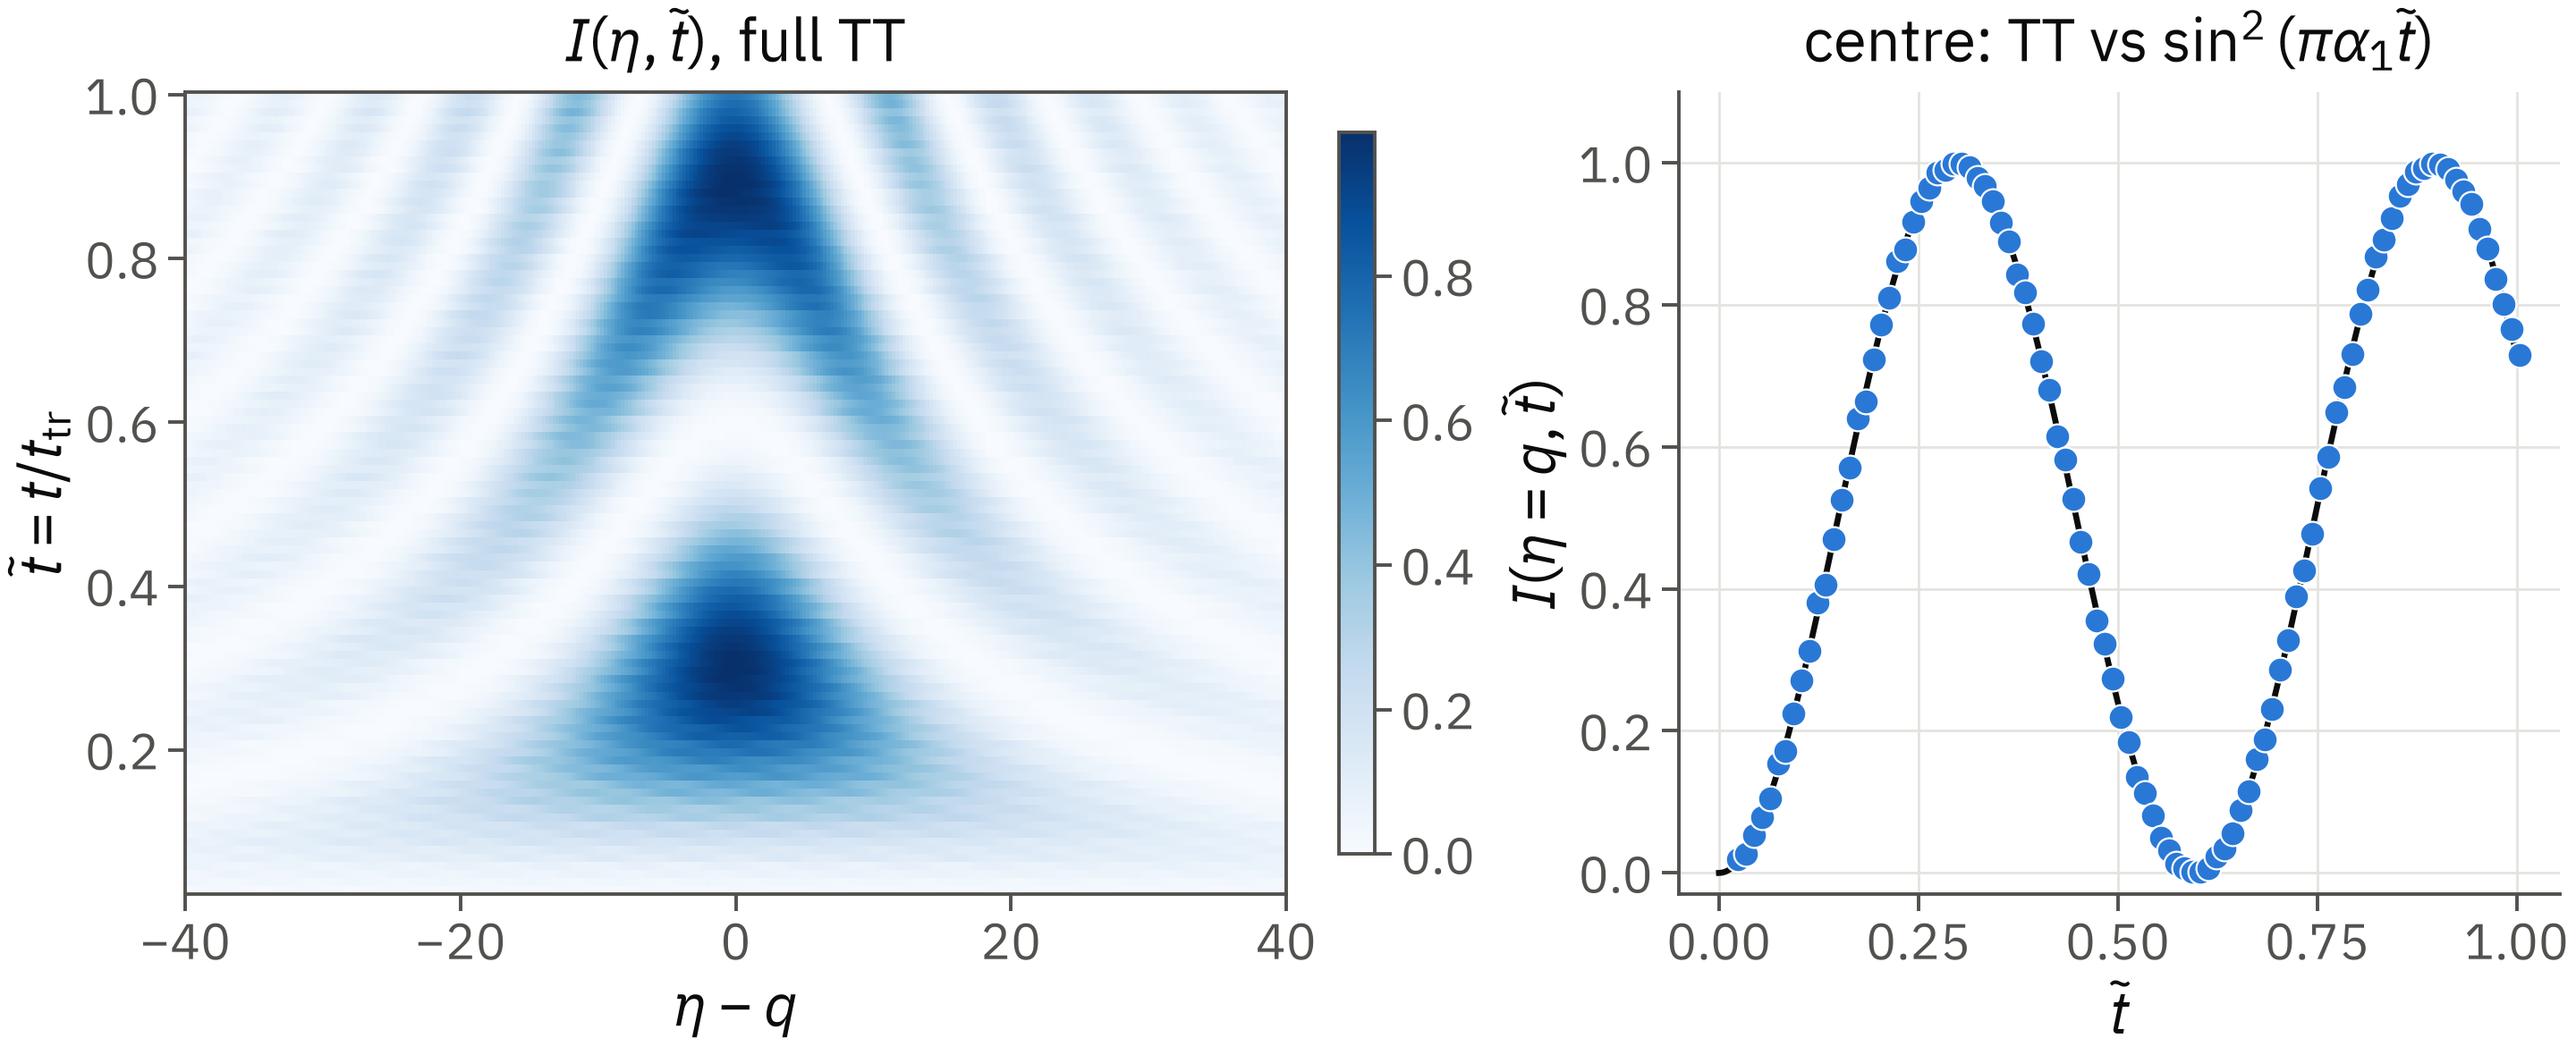
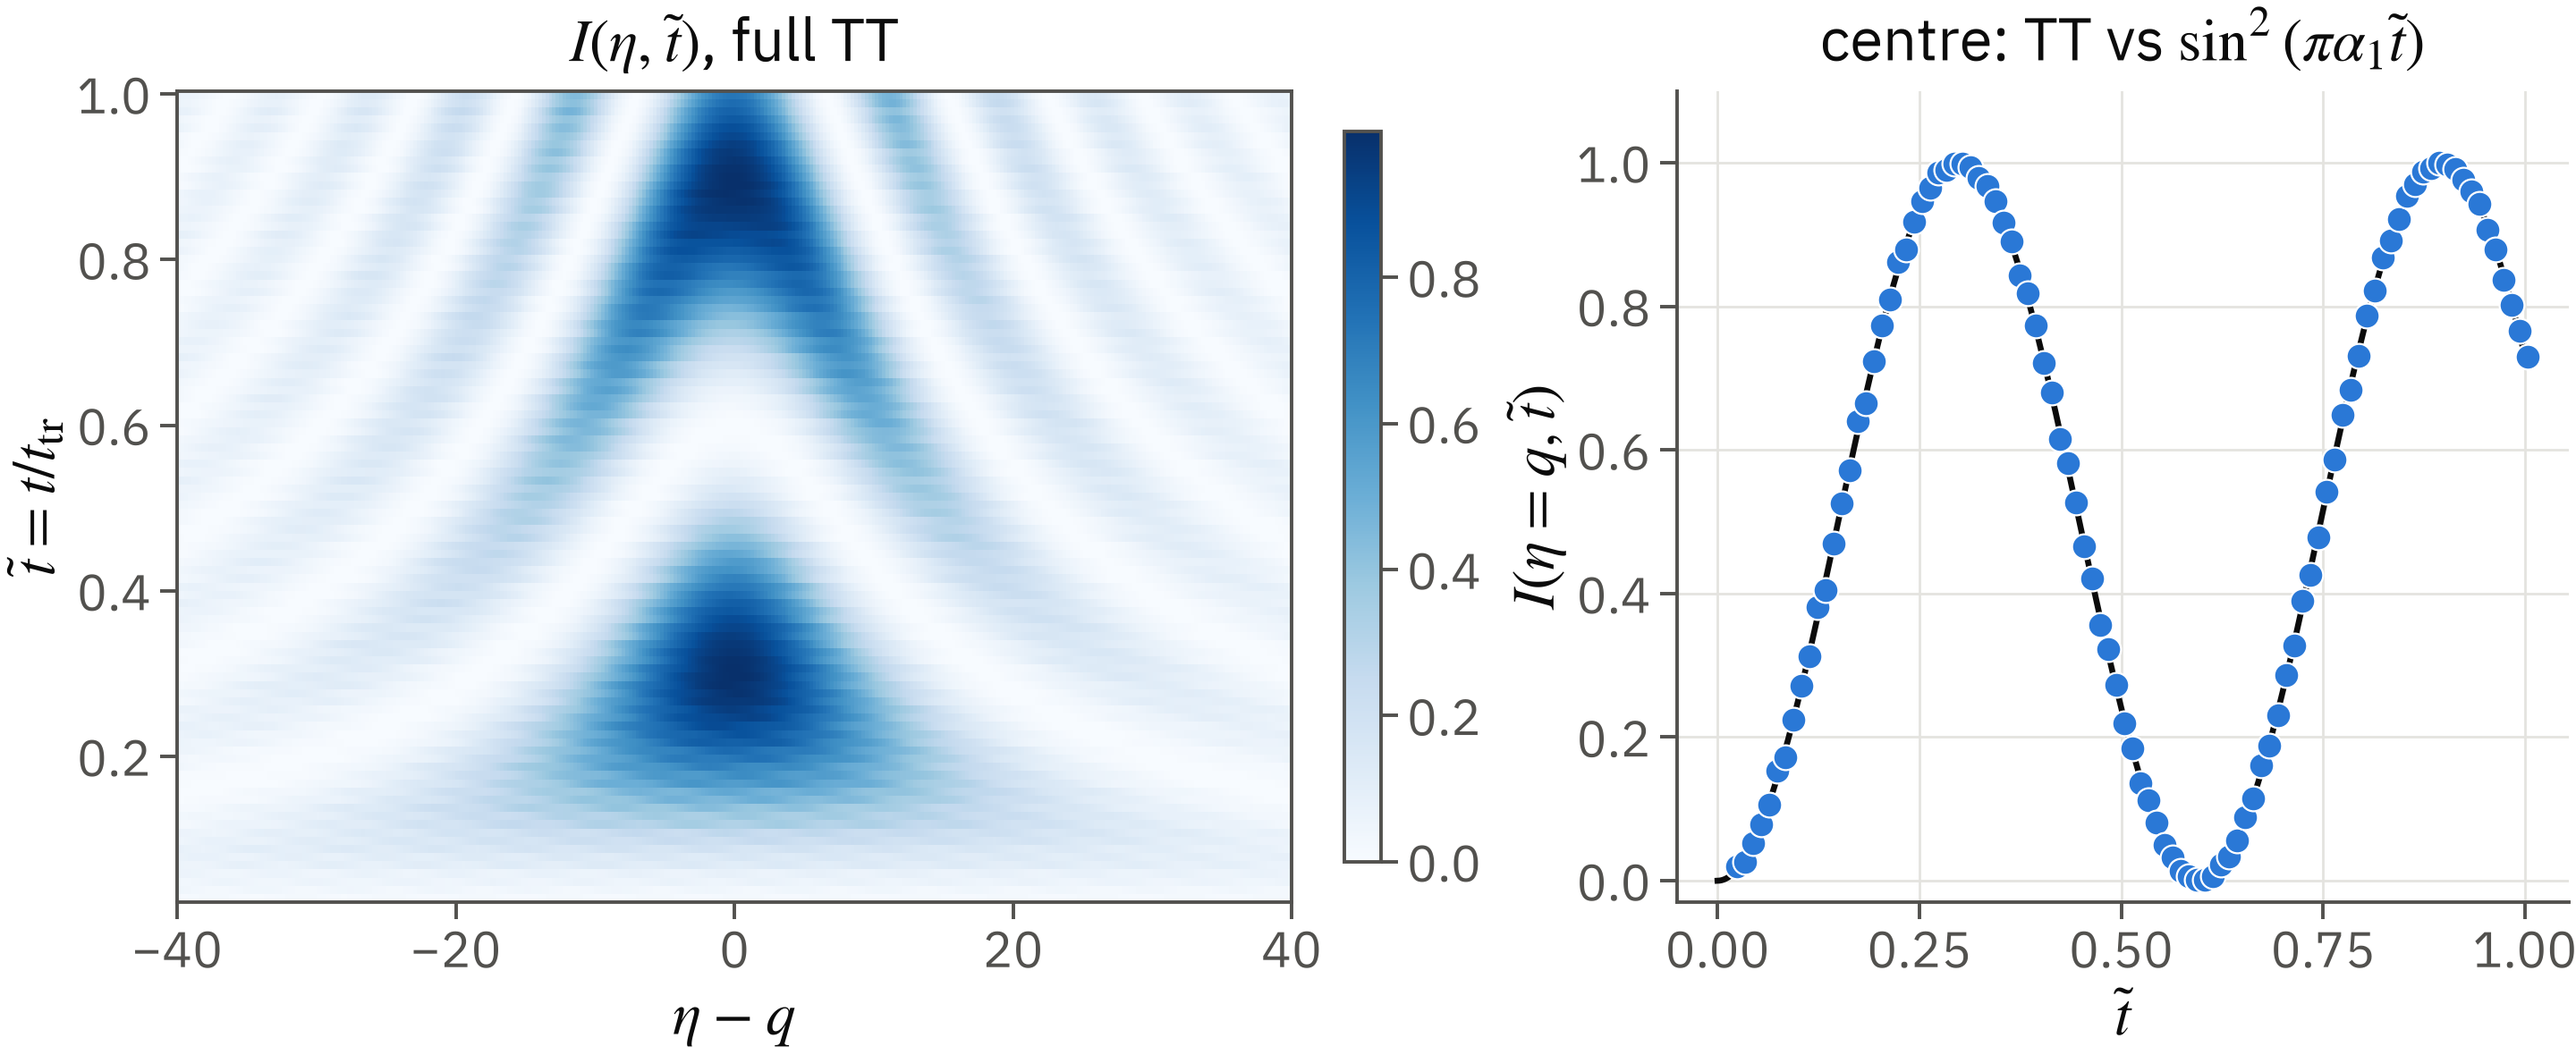
Type: give the math its own face
The poster set its equations in IBM Plex Sans, the same face as the body. A
specimen of the poster's own strings under four fontsets showed what that costs:

- Plex Sans has no \cdot and no \sim, so "S = h . u_0" and "R ~ 1" were silently
  falling back to DejaVu Sans mid-equation;
- its \int is a text-sized glyph, which makes the Theta_n integral read as a
  stray stroke in the panel that is built around it;
- sans italic variables are barely distinguishable from the sans body text.

Computer Modern fixes all three and looks like physics, but rendered into the
real layout its display integral overshoots the line box and collides with the
line below, so it is rejected on a measured failure rather than on taste. STIX
gives proper italics, a readable integral and no fallback glyphs, and stays
inside the line box. Text stays IBM Plex Sans.

Absolute values are now \left|..\right|: a bare STIX bar is the height of a
lowercase l, so "pi alpha |J_n(S)|" read as "pi alpha lJ_n(S)l" in the key
result band. Scaling the delimiter to the content fixes it.

explore/make_poster_figs.py takes the same pairing, so an axis label and a panel
equation are set identically; all five figures regenerated. TRATT_MATH switches
the fontset for a future comparison. Build checks pass.

diff --git a/poster/build.py b/poster/build.py
@@ -6,7 +6,14 @@ is still required; the checks only catch what a machine can see.
 
 Look (v2). Group identity from the ICAMD 2025 poster (navy header, logos, three-colour stripe, A0,
 two columns), with a less "default slide" finish:
-- IBM Plex Sans throughout (poster/fonts, SIL OFL), math in the same face (italic for variables);
+- text in IBM Plex Sans (poster/fonts, SIL OFL); math in STIX, so a variable is a serif italic
+  and is told apart from the sans body at a glance. Plex Sans was the math face too until the
+  specimen showed what it costs: it has no \cdot and no \sim, so "h . u_0" and "R ~ 1" were
+  silently falling back to DejaVu, and its \int is a text-sized glyph that vanishes in the
+  Theta_n equation. Computer Modern ("cm") fixes both but its display integral overshoots the
+  line box and collides with the line below, so STIX is the one that fits this layout. Set
+  TRATT_MATH=cm|plex|dejavuserif to re-compare. Absolute values are \left|..\right|: a bare
+  STIX | is the height of a lowercase l and reads as one;
 - borderless rounded cards with a faint shadow; the section head sits inside its card: an orange
   number badge, a navy semibold title and a hairline divider;
 - bullets are small orange squares at x-height; the key message is a navy band with white text;
@@ -48,10 +55,18 @@ for _f in sorted((ROOT / "poster" / "fonts").glob("*.ttf")):
 FONT = "IBM Plex Sans"
 # Word-by-word placement needs text widths that scale linearly with dpi; hinting breaks that and
 # makes long words overrun the next one in a preview rendered at another dpi.
+import os  # noqa: E402
+
+# Math face. IBM Plex Sans has no \cdot and no \sim, so a custom all-Plex fontset silently
+# falls back to DejaVu for "h . u_0" and "R ~ 1"; its \int is also a text-sized glyph, which
+# the Theta_n equation needs to be bigger than. Set TRATT_MATH to compare.
+MATH = os.environ.get("TRATT_MATH", "stix")
+_math = ({"mathtext.fontset": "custom", "mathtext.rm": FONT, "mathtext.it": f"{FONT}:italic",
+          "mathtext.bf": f"{FONT}:bold", "mathtext.sf": FONT}
+         if MATH == "plex" else {"mathtext.fontset": MATH})
 matplotlib.rcParams.update({"text.hinting": "none", "text.hinting_factor": 1, "font.family": FONT,
-                            "mathtext.fontset": "custom", "mathtext.rm": FONT, "mathtext.it": f"{FONT}:italic",
-                            "mathtext.bf": f"{FONT}:bold", "mathtext.sf": FONT,
-                            "pdf.fonttype": 42})   # TrueType in the PDF: editable, accepted by print shops
+                            "pdf.fonttype": 42,   # TrueType in the PDF: editable, accepted by print shops
+                            **_math})
 import matplotlib.image as mpimg  # noqa: E402
 import matplotlib.pyplot as plt  # noqa: E402
 from matplotlib.patches import FancyBboxPatch  # noqa: E402

diff --git a/explore/make_poster_figure.py b/explore/make_poster_figure.py
@@ -52,7 +52,7 @@ def collapse(ax, geometry, law, lawlabel, title, small=7.5, ms=4):
                 color=c, ls="none", label=rf"$S$={S:g}, $\alpha$={alpha:g}, $n$={n}")
     s = np.linspace(0, 2.3, 500)
     ax.plot(s, law(s), color=INK, lw=1.4, label=lawlabel, zorder=0)
-    ax.set(xlim=(0, 2.3), ylim=(-0.03, 1.08), xlabel=r"$\alpha_n\tilde t$,  $\alpha_n=\alpha|J_n(S)|$",
+    ax.set(xlim=(0, 2.3), ylim=(-0.03, 1.08), xlabel=r"$\alpha_n\tilde t$,  $\alpha_n=\alpha\left|J_n(S)\right|$",
            ylabel=r"$I(\eta=nq,\,\tilde t)$", title=title)
     ax.legend(fontsize=small, frameon=False, loc="lower right" if geometry == "bragg" else "upper right")
 
@@ -63,7 +63,7 @@ def order_panel(ax):
     t = np.linspace(0.0, 1.0, 201) + OFF
     for n, c, m in zip((1, 2, 3), HUES, MARK):
         tstar = 1 / (2 * alpha * np.abs(jv(n, Ss)))
-        ax.plot(Ss, tstar, color=c, label=rf"$n={n}$: $1/(2\alpha|J_{n}(S)|)$")
+        ax.plot(Ss, tstar, color=c, label=rf"$n={n}$: $1/(2\alpha\left|J_{n}(S)\right|)$")
         pts = []
         for S in (1.0, 2.0, 3.0, 4.0):
             if 1 / (2 * alpha * abs(jv(n, S))) < 0.95:
@@ -77,7 +77,7 @@ def order_panel(ax):
                 arrowprops=dict(arrowstyle="->", color=INK2, lw=0.8))
     ax.set(xlim=(0.3, 4.5), ylim=(0.2, 1.2), xlabel=r"modulation index $S$",
            ylabel=r"first maximum $\tilde t^{*}$",
-           title=r"c  Formation order follows $|J_n(S)|$ ($\alpha$=2; points: simulation)")
+           title=r"c  Formation order follows $\left|J_n(S)\right|$ ($\alpha$=2; points: simulation)")
     ax.legend(fontsize=7.5, frameon=False, loc="upper right")
 
 
@@ -113,7 +113,7 @@ def main(out="figures/poster_mapping.png"):
         a.grid(color=GRID, lw=0.6)
         a.set_axisbelow(True)
     fig.suptitle("Satellite n forms as a crystal of the filled depth with coupling "
-                 r"$\pi\alpha|J_n(S)|$ — curves are closed forms, no fit;"
+                 r"$\pi\alpha\left|J_n(S)\right|$ — curves are closed forms, no fit;"
                  r" points are full Takagi–Taupin ($\alpha_{\rm ac}$=20)", fontsize=10)
     fig.savefig(out)
     print("wrote", out)

diff --git a/explore/make_poster_figs.py b/explore/make_poster_figs.py
@@ -41,8 +41,10 @@ def style():
         "axes.edgecolor": INK2, "axes.labelcolor": INK, "text.color": INK, "xtick.color": INK2,
         "ytick.color": INK2, "axes.spines.top": False, "axes.spines.right": False,
         "figure.facecolor": "white", "savefig.facecolor": "white", "savefig.dpi": 200,
-        "font.family": FONT, "mathtext.fontset": "custom", "mathtext.rm": FONT,
-        "mathtext.it": f"{FONT}:italic", "mathtext.bf": f"{FONT}:bold", "mathtext.sf": FONT,
+        # Text in the poster's own face; math in STIX, the same pairing poster/build.py uses, so
+        # an axis label and a panel equation are set identically. An all-Plex math fontset has no
+        # \cdot and no \sim and falls back to DejaVu for them, and its \int is a text-sized glyph.
+        "font.family": FONT, "mathtext.fontset": "stix",
     })
 
 
@@ -104,7 +106,7 @@ def f1():
     h, lab = ax[1].get_legend_handles_labels()
     ax[1].legend(h, lab[:-1] + ["closed form (line)"], frameon=False, loc="lower right", fontsize=SMALL - 2)
     for a in ax:
-        a.set_xlabel(r"$\alpha_n\tilde t$,   $\alpha_n=\alpha|J_n(S)|$")
+        a.set_xlabel(r"$\alpha_n\tilde t$,   $\alpha_n=\alpha\left|J_n(S)\right|$")
     ax[1].set_ylabel("")
     ax[1].tick_params(labelleft=False)          # shared y axis: one set of tick labels
     finish(fig, ax, "f1_collapse")

diff --git a/poster/poster.md b/poster/poster.md
@@ -21,7 +21,7 @@ Temporal Pendellösung of the main reflection: DeCamp et al., Nature 413, 825 (2
 
 ![](figures/poster/f0_scheme.png){E0}
 
-> **Key result.** Behind the front, satellite $n$ is a crystal of the filled depth $v_s t$ with coupling $\pi\alpha|J_n(S)|$. Formation runs on a dynamical clock, $t_{tr}/(\alpha|J_n(S)|)$: the transit time only ends the transient. {E1}{E9}{E33}
+> **Key result.** Behind the front, satellite $n$ is a crystal of the filled depth $v_s t$ with coupling $\pi\alpha\left|J_n(S)\right|$. Formation runs on a dynamical clock, $t_{tr}/(\alpha\left|J_n(S)\right|)$: the transit time only ends the transient. {E1}{E9}{E33}
 
 ## Model
 
@@ -31,9 +31,9 @@ Temporal Pendellösung of the main reflection: DeCamp et al., Nature 413, 825 (2
 
 ## Filled-depth mapping: one law, no fit
 
-- Laue: $I(nq,t) = \sin^2(\pi\alpha_n t)$, a temporal Pendellösung with period $\Lambda_P/(v_s|J_n(S)|)$, independent of $L$. {E1}
+- Laue: $I(nq,t) = \sin^2(\pi\alpha_n t)$, a temporal Pendellösung with period $\Lambda_P/(v_s\left|J_n(S)\right|)$, independent of $L$. {E1}
 - Bragg: $I(nq,t) = \tanh^2(\pi\alpha_n t)$, formation time $0.95\,t_{tr}/\alpha_n$, capped at $t_{tr}$. {E9}
-- Formation order follows the Bessel ladder: channel $n$ first peaks at $t^*/t_{tr} = 1/(2\alpha|J_n(S)|)$, so $S$ reorders the channels (at $S=3$: $n=2$, then 1, then 3). {E1}{E24}
+- Formation order follows the Bessel ladder: channel $n$ first peaks at $t^*/t_{tr} = 1/(2\alpha\left|J_n(S)\right|)$, so $S$ reorders the channels (at $S=3$: $n=2$, then 1, then 3). {E1}{E24}
 
 ![Points: full Takagi–Taupin for four $(S, \alpha, n)$; lines: closed forms, no fit parameter.](figures/poster/f1_collapse.png){E1}{E9}
 
@@ -62,7 +62,7 @@ Satellite $n$ reads the last $t_{tr}$ of the drive, $\Theta_n = \int J_n(S\,A(t-
 
 %% 0 | fit parameters: one law for every order, Laue and Bragg {E1}{E9}
 %% 1–3 % | phase walls vs stacking-fault theory {E56}
-%% ~1 % | in-situ calibration of S, $\alpha|J_2|\geq 0.5$ {E13}
+%% ~1 % | in-situ calibration of S, $\alpha\left|J_2\right|\geq 0.5$ {E13}
 
 - Every order, Laue and Bragg, runs on one dynamical clock, set by its own extinction length. {E1}{E9}{E33}
 - Si 440 at 17–30 keV with a 1–2 GHz drive: $\tau_1$ = 17–30 ns. {E20}
